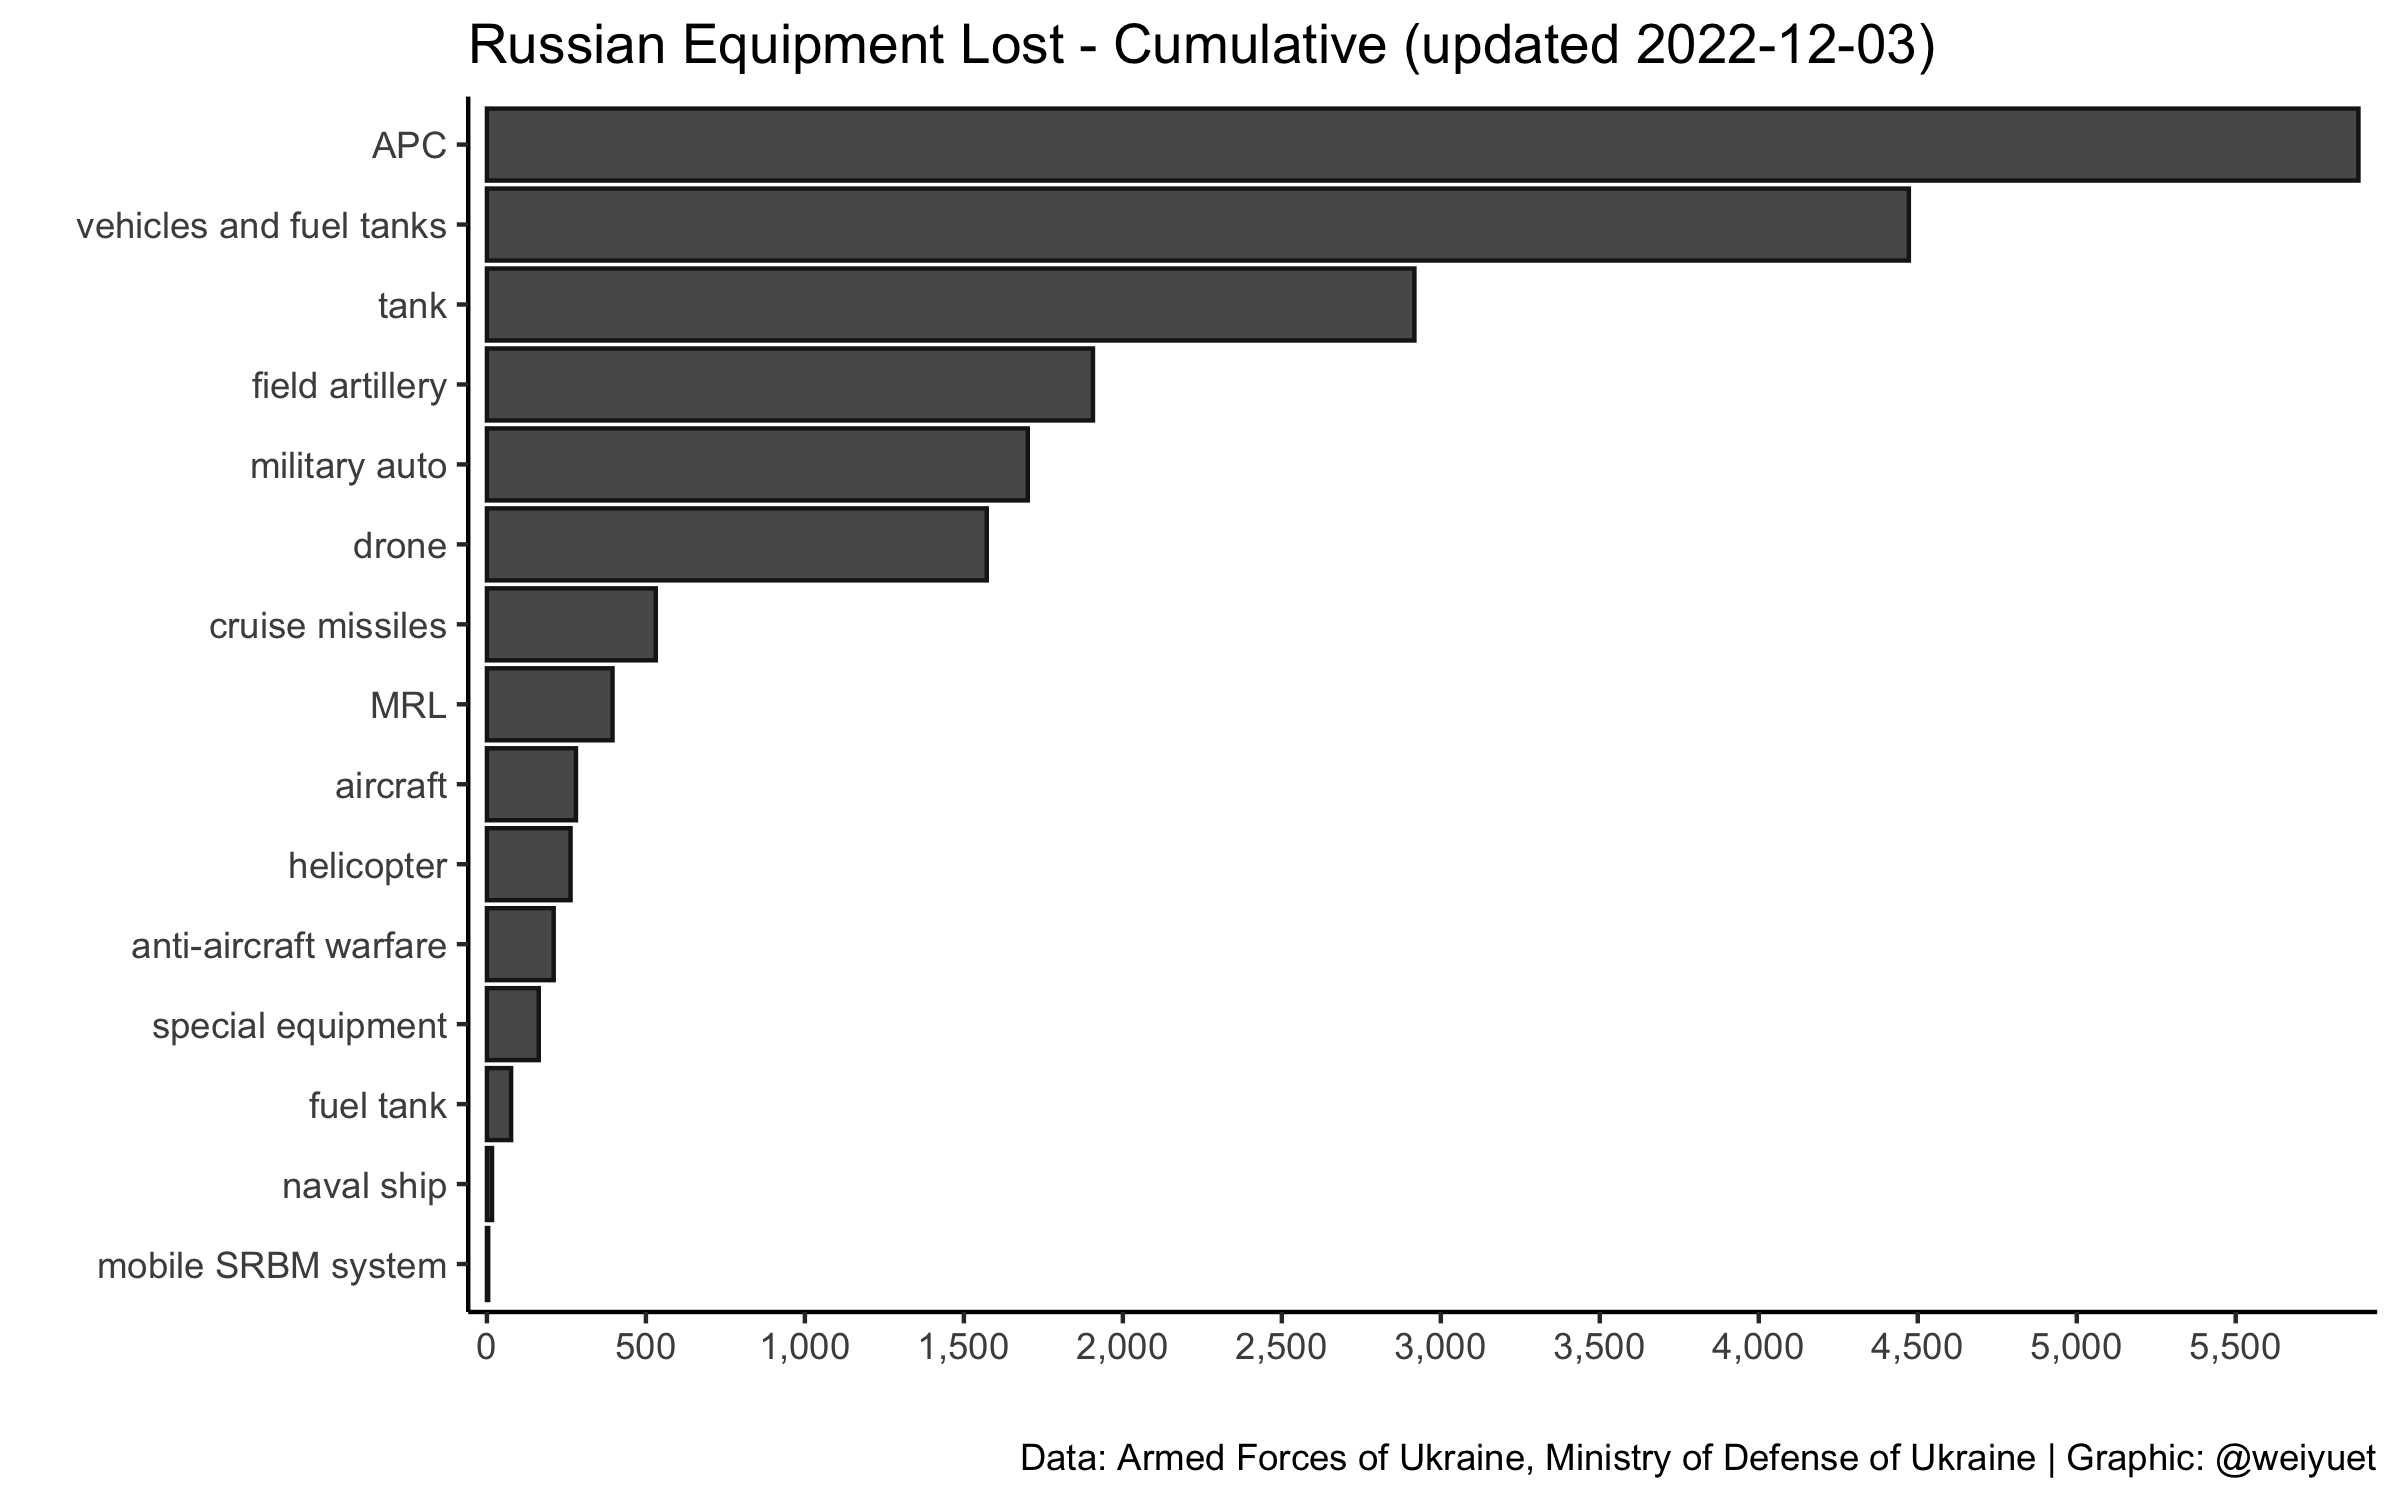
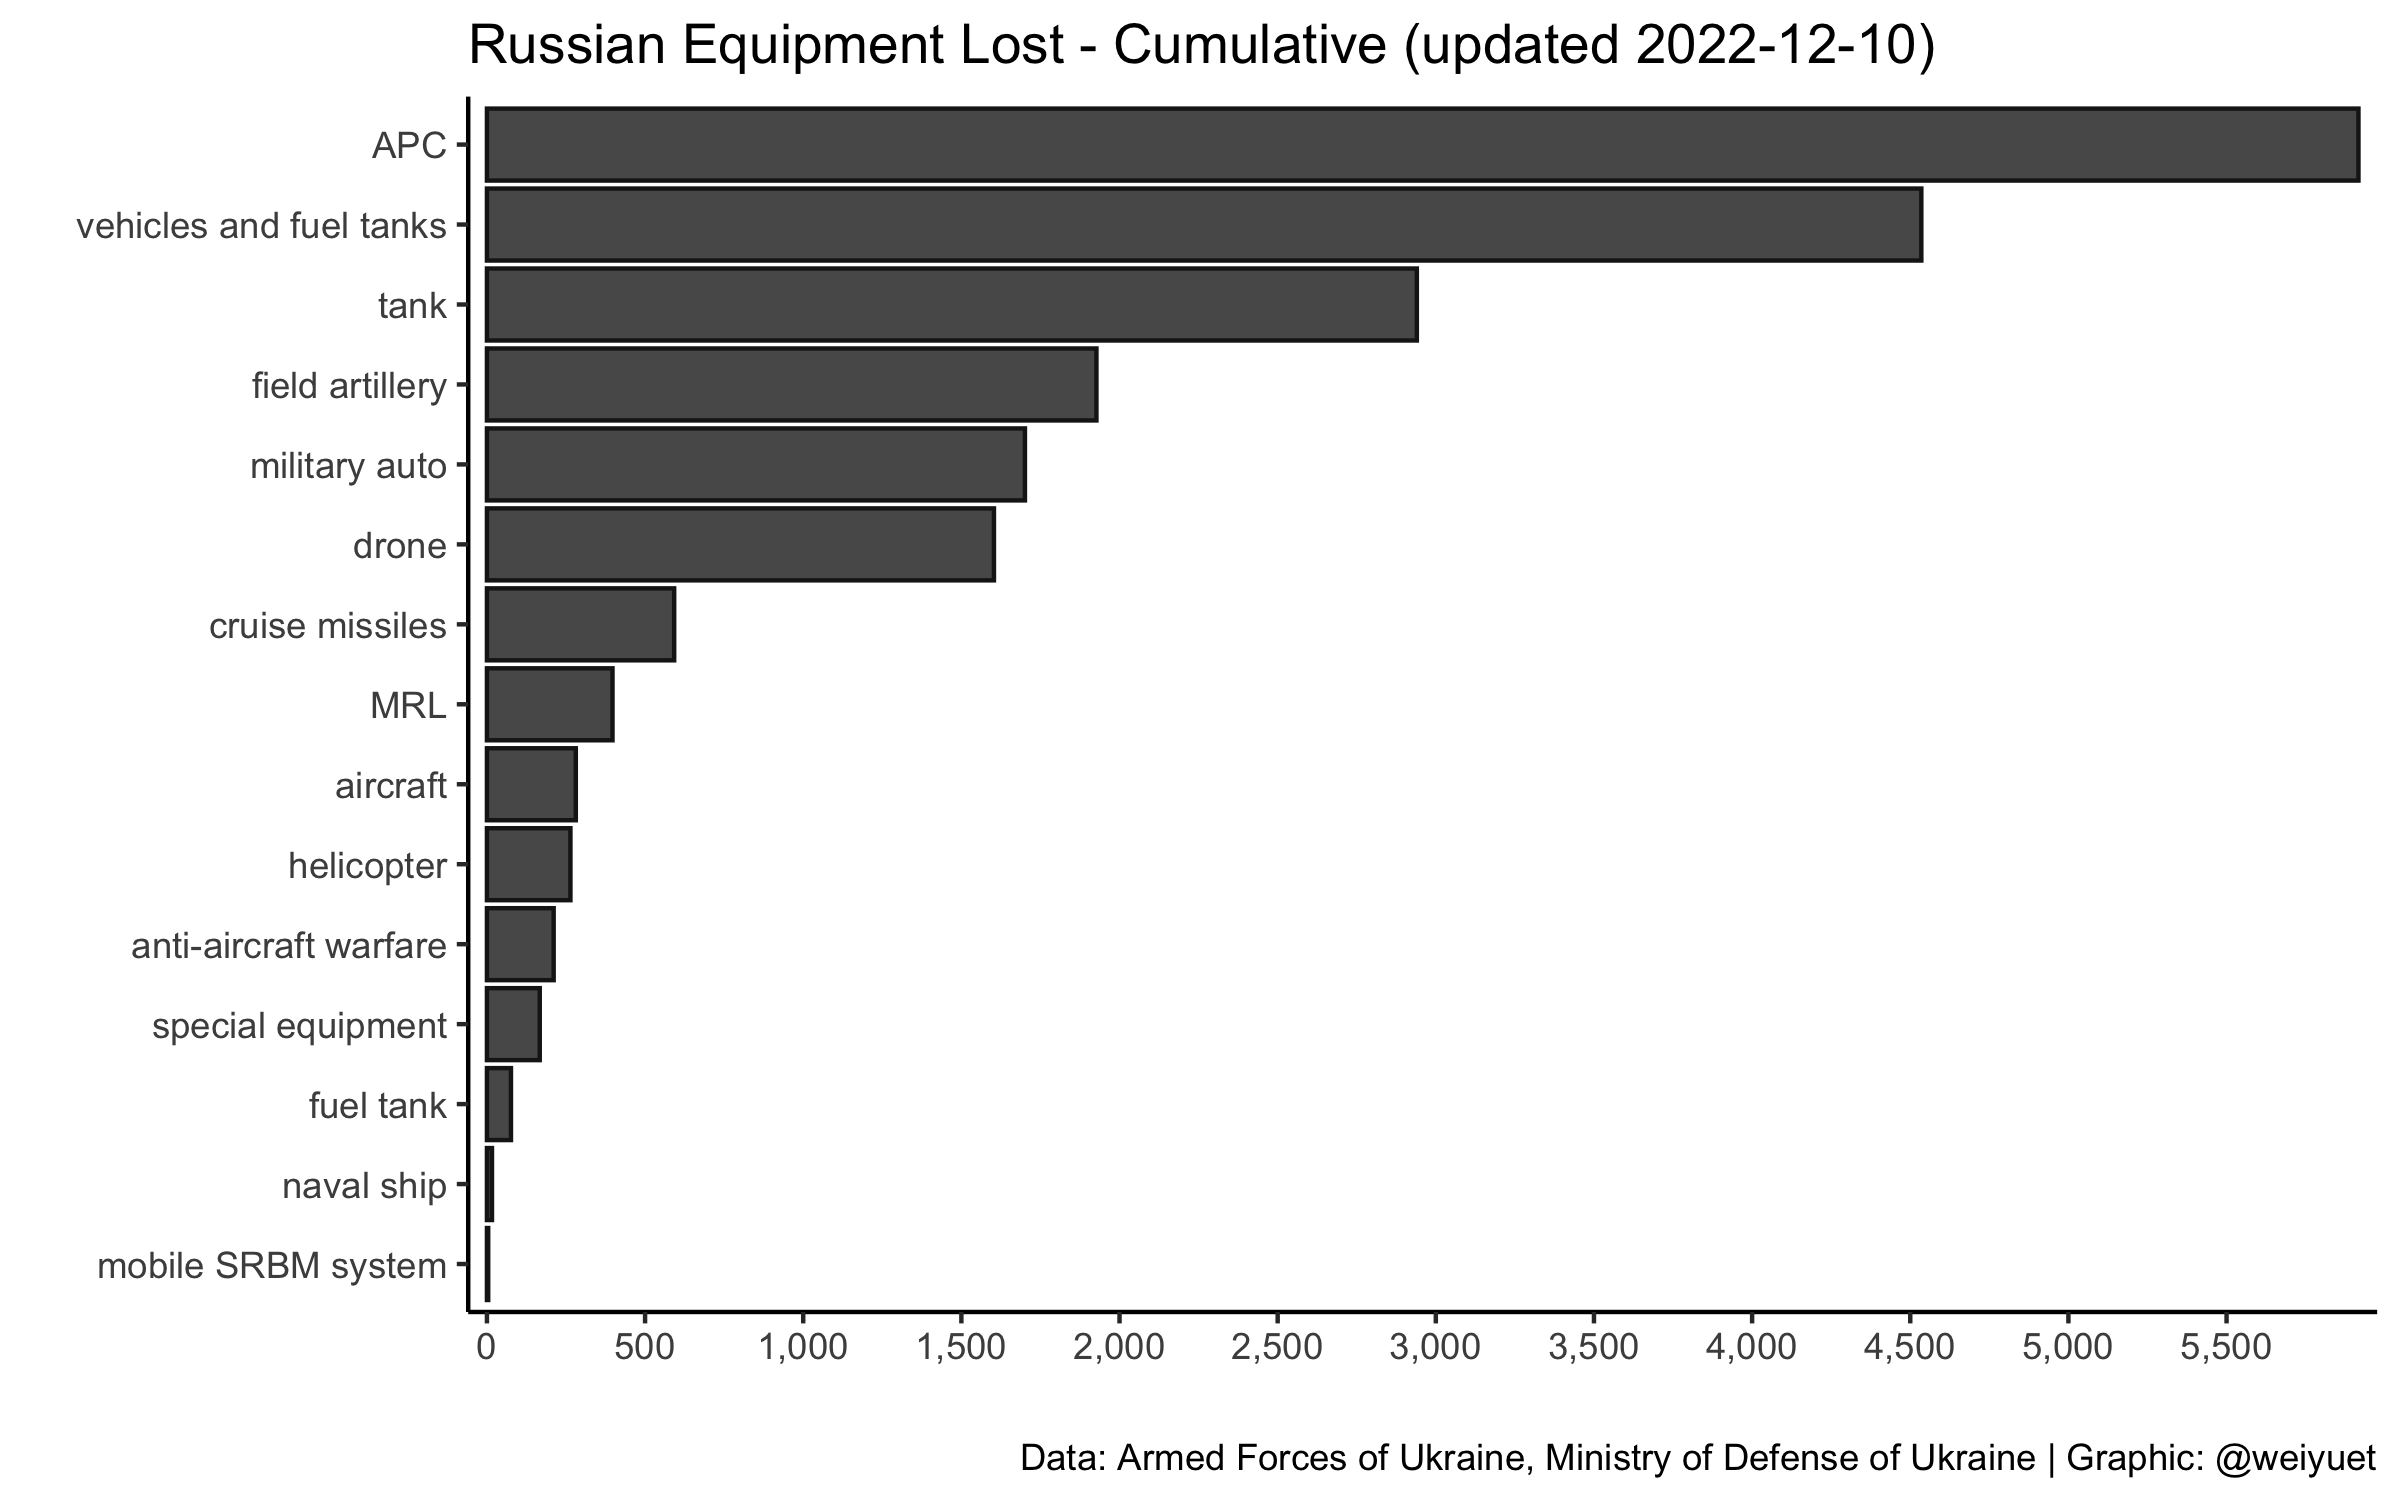
Updated 11 December

diff --git a/README.md b/README.md
@@ -6,7 +6,7 @@ Wong Wei Yuet 2022-05-26
 
   - War casualty data updated daily from [`Petro Ivanyuk's Kaggle`](https://www.kaggle.com/datasets/piterfm/2022-ukraine-russian-war). All data is official and put together by `Petro`
 
-Updated: 2022-12-04
+Updated: 2022-12-11
 
 ## Summary of Conflict
 
